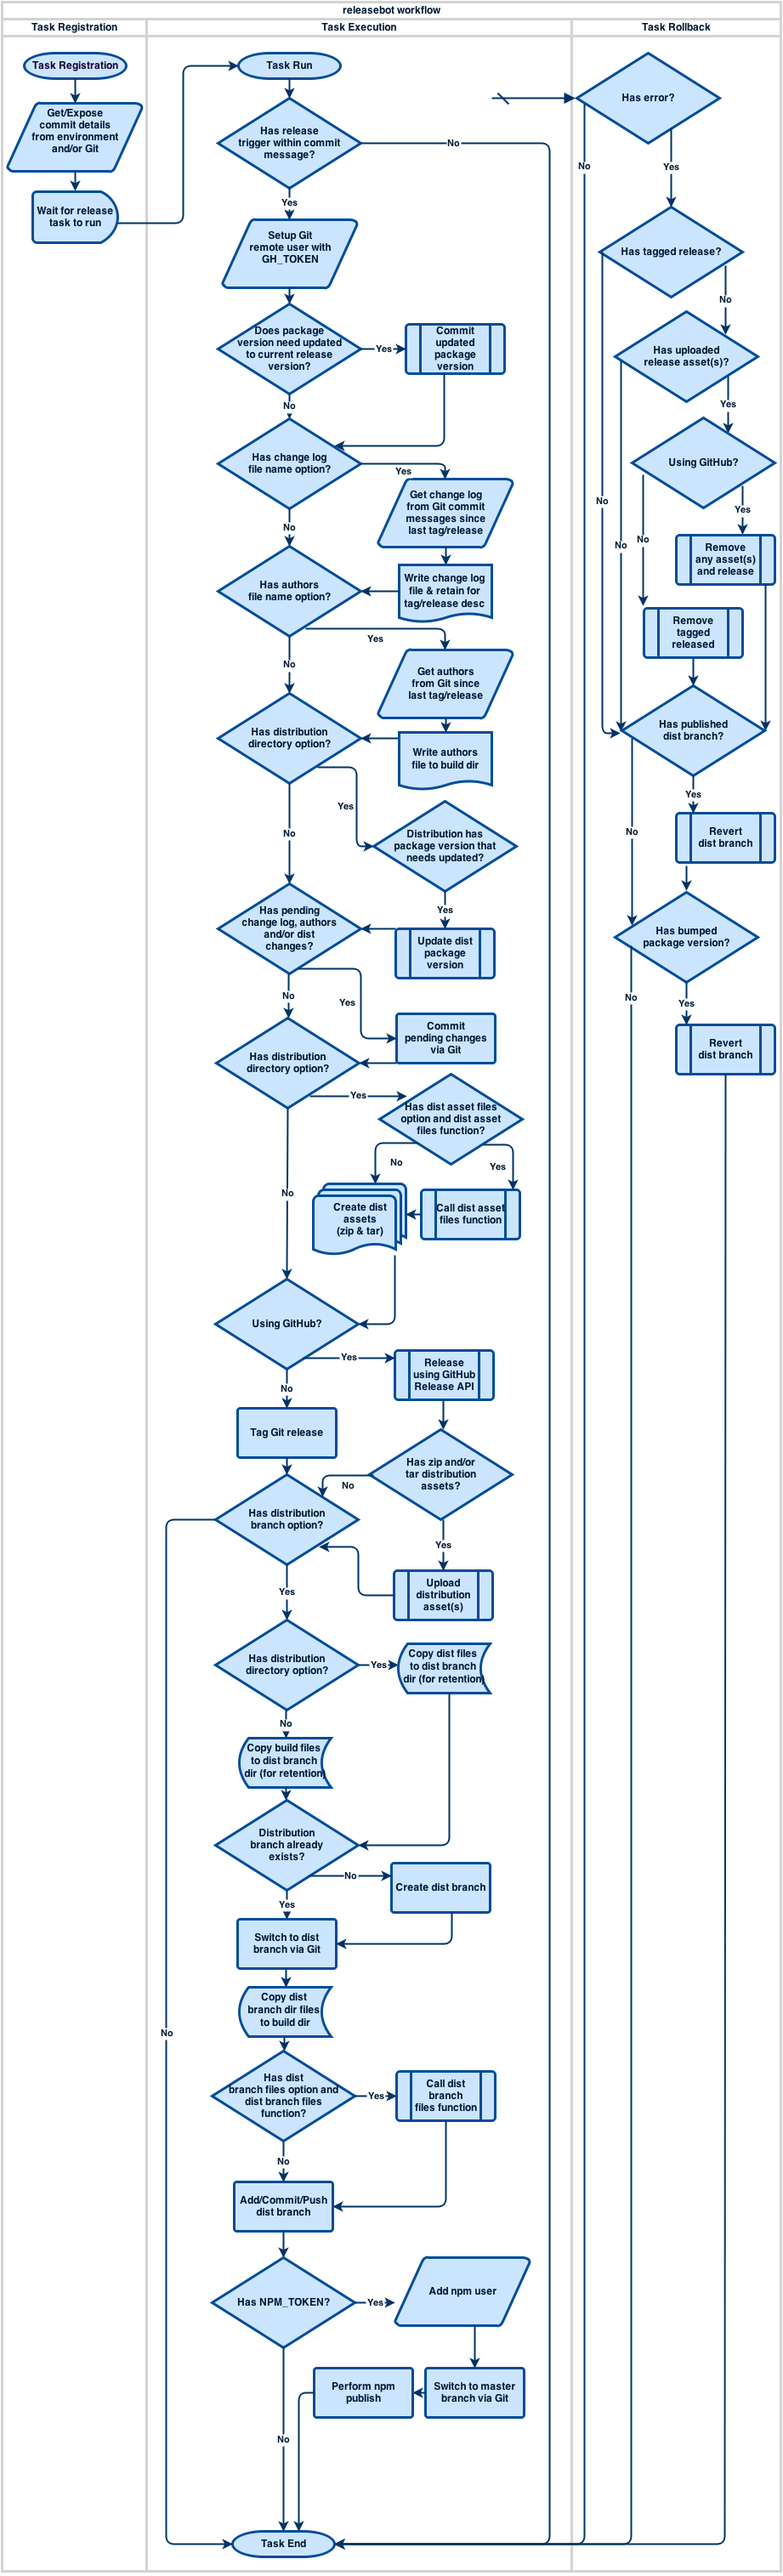
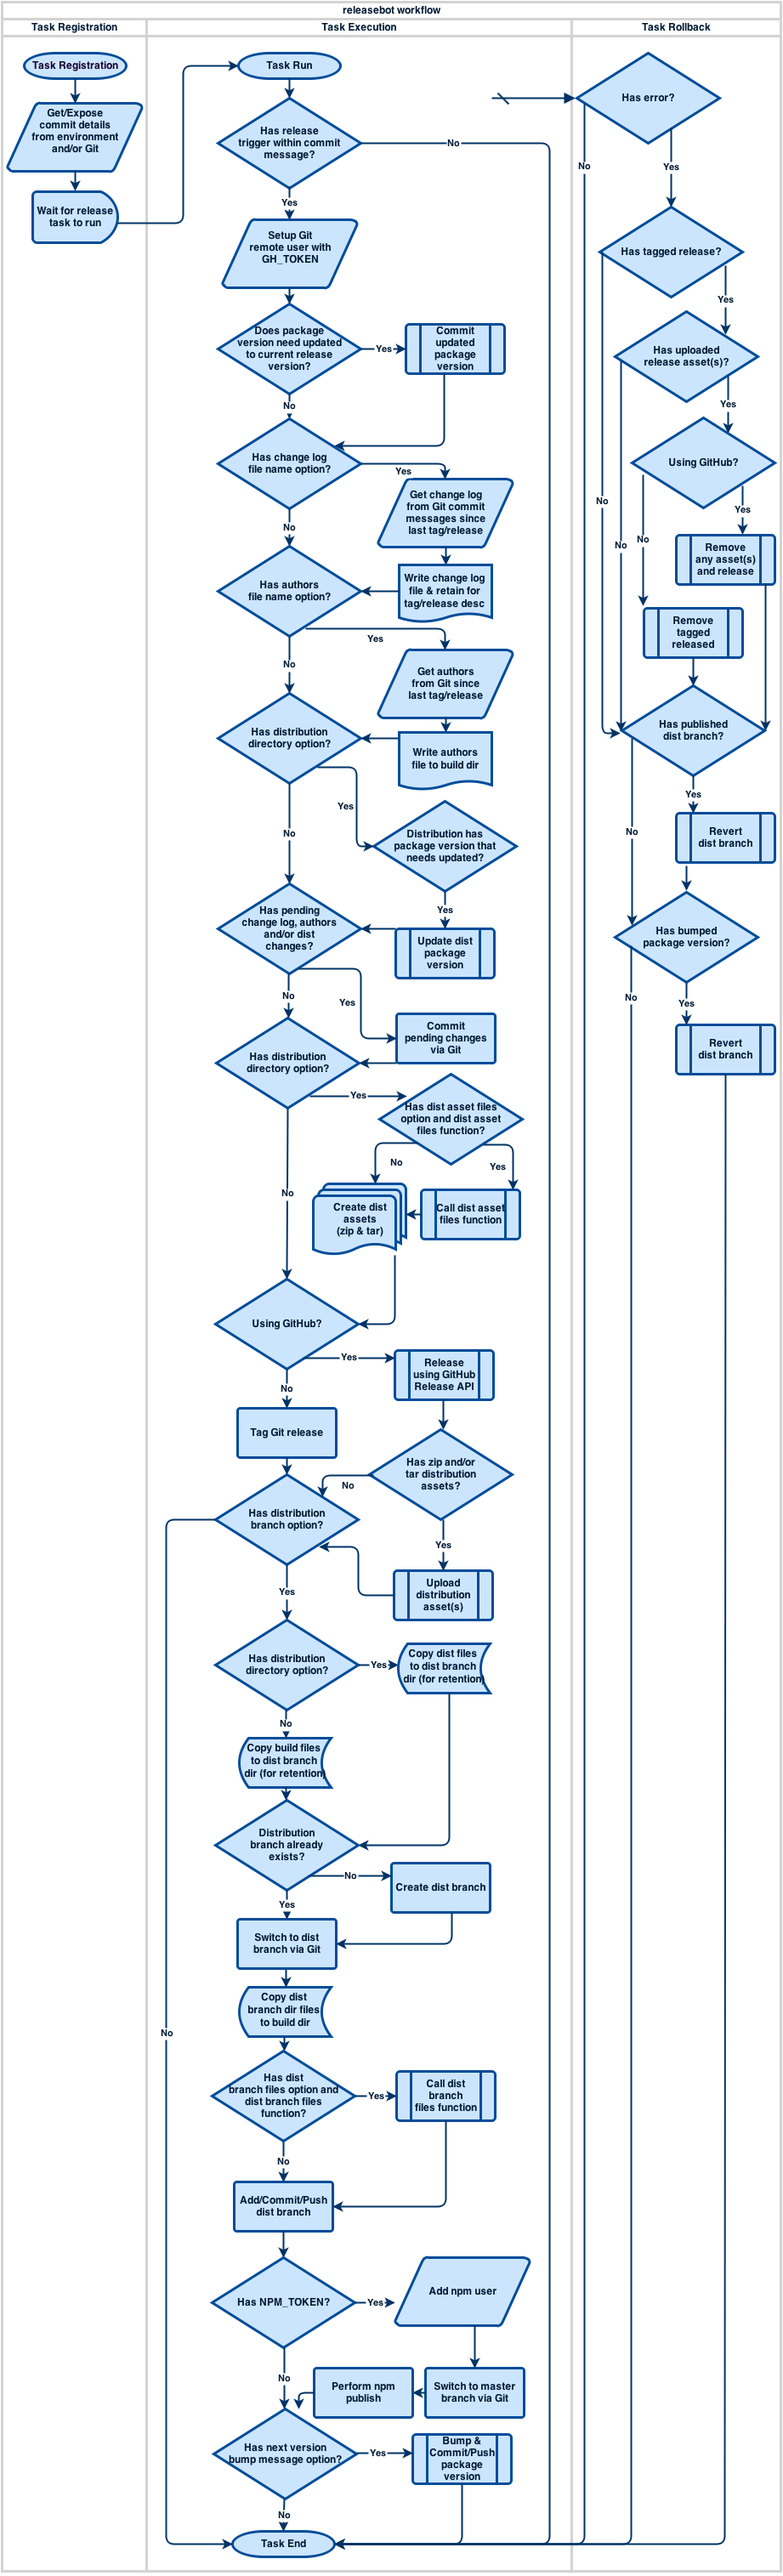
Fixes #5 Release v*.*.+

Changed region(s): [[0.2736, 0.9307, 0.456, 0.9927], [0.5168, 0.9307, 0.6688, 0.9927]]

diff --git a/lib/coopt.js b/lib/coopt.js
@@ -13,6 +13,25 @@ var regexRelease = new RegExp(regexReleasePrefix.source + regexVersion.source,
 var regexSemverInc = /(v)\+(major|premajor|minor|preminor|patch|prepatch|prerelease)/i;
 var regexEscape = /[\-\[\]\/\{\}\(\)\*\+\?\.\\\^\$\|]/g;
 var chgLog = 'CHANGELOG';
+// current commit tasks
+var commitTasks = [];
+// current test values
+var testVals;
+var coopt = exports;
+coopt._getCommitTask = getCommitTask;
+coopt._cloneAndSetCommitTask = cloneAndSetCommitTask;
+coopt._testNamespace = 'test';
+coopt._setTestValue = setTestValue;
+coopt._getTestValue = getTestValue;
+coopt.pluginName = globalOpts.pluginName;
+coopt.pluginDesc = globalOpts.pluginDesc;
+coopt.regexLines = globalOpts.regexLines;
+coopt.regexKey = globalOpts.regexKey;
+coopt.regexDupLines = globalOpts.regexDupLines;
+coopt.getLineReplRegExp = getLineReplRegExp;
+coopt.escapeRegExp = escapeRegExp;
+coopt.getCommit = getCommit;
+coopt.getEnv = getEnv;
 
 // default global options
 var globalOpts = {
@@ -36,27 +55,6 @@ var globalOpts = {
 	regexDupLines : /^(.*)(\r?\n\1)+$/gm,
 	regexKey : /(https?:\/\/|:)+(?=[^:]*$)[a-z0-9]+(@)/gmi,
 };
-
-// current commit tasks
-var commitTasks = [];
-// current test values
-var testVals;
-
-var coopt = exports;
-coopt._getCommitTask = getCommitTask;
-coopt._cloneAndSetCommitTask = cloneAndSetCommitTask;
-coopt._testNamespace = 'test';
-coopt._setTestValue = setTestValue;
-coopt._getTestValue = getTestValue;
-coopt.pluginName = globalOpts.pluginName;
-coopt.pluginDesc = globalOpts.pluginDesc;
-coopt.regexLines = globalOpts.regexLines;
-coopt.regexKey = globalOpts.regexKey;
-coopt.regexDupLines = globalOpts.regexDupLines;
-coopt.getLineReplRegExp = getLineReplRegExp;
-coopt.escapeRegExp = escapeRegExp;
-coopt.getCommit = getCommit;
-coopt.getEnv = getEnv;
 
 /**
  * Generates commit options
@@ -93,6 +91,57 @@ function genCommitOptions(grunt, commitMsg) {
 }
 
 /**
+ * Generates task options
+ * 
+ * @returns {___anonymous3636_5131}
+ */
+function genTaskOptions() {
+	var mp = globalOpts.pluginName + ': ';
+	return {
+		name : '<%= commit.versionTag %>',
+		pkgCurrVerBumpMsg : mp
+				+ 'Updating <%= env.pkgPath %> version to match release version <%= commit.version %> <%= commit.skipTaskGen(options.releaseSkipTasks) %>',
+		pkgNextVerBumpMsg : mp
+				+ 'Bumping <%= env.pkgPath %> version to <%= commit.next.version %> <%= commit.skipTaskGen(options.releaseSkipTasks) %>',
+		distBranchPubMsg : mp
+				+ 'Publishing <%= commit.version %> <%= commit.skipTaskGen(options.releaseSkipTasks) %>',
+		pkgJsonReplacer : null,
+		pkgJsonSpace : 2,
+		gitHostname : github.hostname,
+		repoName : 'origin',
+		repoUser : globalOpts.pluginName,
+		repoEmail : globalOpts.pluginName
+				+ '@'
+				+ (process.env.TRAVIS_BUILD_NUMBER ? 'travis-ci.org'
+						: 'example.org'),
+		chgLog : 'HISTORY.md',
+		authors : 'AUTHORS.md',
+		chgLogLineFormat : '  * %s',
+		chgLogRequired : true,
+		chgLogSkipRegExps : [ mp ],
+		authorsRequired : false,
+		authorsSkipLineRegExp : null,
+		distBranch : 'gh-pages',
+		distDir : 'dist',
+		distBranchCreateRegExp : /Couldn't find remote ref/i,
+		distExcludeDirRegExp : /.?node_modules.?/gmi,
+		distExcludeFileRegExp : /.?\.zip|tar.?/gmi,
+		distAssetCompressRatio : 9,
+		distAssetDir : '..',
+		distAssetUpdateFunction : null,
+		distAssetUpdateFiles : [],
+		distBranchUpdateFunction : null,
+		distBranchUpdateFiles : [],
+		rollbackStrategy : 'queue',
+		rollbackAsyncTimeout : 60000,
+		asyncTimeout : 60000,
+		releaseSkipTasks : [ 'ci' ],
+		npmTag : '',
+		npmRegistryURL : 'https://registry.npmjs.org'
+	};
+}
+
+/**
  * Gets or creates a commit task object that contains a commit object from a
  * predefined set of cooperative options along with the defaultTaskOptions for
  * that Commit (internal use)
@@ -116,49 +165,10 @@ function getCommitTask(grunt, cm, ns, pv) {
 		var copts = genCommitOptions(grunt, hcm ? cm : null);
 		var commit = committer.init(grunt, globalOpts.pluginName,
 				globalOpts.regexLines, copts, ns ? null : undefined, ns, pv);
-		var taskOpts = {
-			name : '<%= commit.versionTag %>',
-			pkgCurrVerBumpMsg : 'Updating <%= env.pkgPath %> version to match release version <%= commit.version %> <%= commit.skipTaskGen(options.releaseSkipTasks) %>',
-			pkgNextVerBumpMsg : 'Bumping <%= env.pkgPath %> version to <%= commit.next.version %> <%= commit.skipTaskGen(options.releaseSkipTasks) %>',
-			distBranchPubMsg : 'Publishing <%= commit.version %> <%= commit.skipTaskGen(options.releaseSkipTasks) %>',
-			pkgJsonReplacer : null,
-			pkgJsonSpace : 2,
-			gitHostname : github.hostname,
-			repoName : 'origin',
-			repoUser : globalOpts.pluginName,
-			repoEmail : globalOpts.pluginName
-					+ '@'
-					+ (process.env.TRAVIS_BUILD_NUMBER ? 'travis-ci.org'
-							: 'example.org'),
-			chgLog : 'HISTORY.md',
-			authors : 'AUTHORS.md',
-			chgLogLineFormat : '  * %s',
-			chgLogRequired : true,
-			chgLogSkipRegExps : [],
-			authorsRequired : false,
-			authorsSkipLineRegExp : null,
-			distBranch : 'gh-pages',
-			distDir : 'dist',
-			distBranchCreateRegExp : /Couldn't find remote ref/i,
-			distExcludeDirRegExp : /.?node_modules.?/gmi,
-			distExcludeFileRegExp : /.?\.zip|tar.?/gmi,
-			distAssetCompressRatio : 9,
-			distAssetDir : '..',
-			distAssetUpdateFunction : null,
-			distAssetUpdateFiles : [],
-			distBranchUpdateFunction : null,
-			distBranchUpdateFiles : [],
-			rollbackStrategy : 'queue',
-			rollbackAsyncTimeout : 60000,
-			asyncTimeout : 60000,
-			releaseSkipTasks : [ 'ci' ],
-			npmTag : '',
-			npmRegistryURL : 'https://registry.npmjs.org'
-		};
 		commitTasks[ns] = {
 			commit : commit,
 			commitOpts : copts,
-			defaultTaskOptions : taskOpts,
+			defaultTaskOptions : genTaskOptions(),
 			namespace : ns
 		};
 	}
@@ -228,8 +238,9 @@ function getTestValue(key) {
  * Creates a regular expression for replacing line items
  * 
  * @param rxa
- *            the optional {Array} of {RegExp} or strings that will be included
- *            in the final expression (concatenated via OR in final expression)
+ *            the optional {Array} of {RegExp} or strings (strings will be
+ *            escaped) that will be included in the final expression
+ *            (concatenated via OR in final expression)
  * @param tasks
  *            an optional {Array} of task names to replace using the generated
  *            sequence syntax (concatenated via OR in final expression)
@@ -238,7 +249,7 @@ function getTestValue(key) {
 function getLineReplRegExp(rxa, tasks) {
 	var r = '', sf = null;
 	function rxItem(o, i, a) {
-		var s = util.isRegExp(o) ? o.source : o;
+		var s = util.isRegExp(o) ? o.source : escapeRegExp(o);
 		if (s) {
 			r += (sf ? sf(true, s) : '(?:' + s + ')')
 					+ (i < (a.length - 1) ? '|' : '');
@@ -253,7 +264,6 @@ function getLineReplRegExp(rxa, tasks) {
 	if (tsks.indexOf(chgLog) < 0) {
 		tsks.push(chgLog);
 	}
-	console.log(tsks);
 	sf = committer.skipTaskGen;
 	tsks.forEach(rxItem);
 	return new RegExp('^.*(' + r + ').*$\n?\r?', 'gmi');

diff --git a/tasks/releasebot.js b/tasks/releasebot.js
@@ -112,9 +112,7 @@ module.exports = function(grunt) {
 		 * Generates an object that contains each of the passed arguments as a
 		 * property with a value of an option with the same name. Each property
 		 * will have a value for that option that is parsed using the grunt
-		 * template processor. When the processed value exists it will also be
-		 * escaped for regular expression use and added to the escCmtMsgs
-		 * {Array} property
+		 * template processor.
 		 * 
 		 * @returns all of the grunt template parsed data
 		 */
@@ -127,18 +125,13 @@ module.exports = function(grunt) {
 					options : options
 				}
 			};
-			var rtn = {
-				escCmtMsgs : []
-			};
+			var rtn = {};
 			var arr = Array.prototype.slice.call(arguments, 0);
 			arr.forEach(function genIntMsgs(s) {
 				rtn[s] = options[s] ? grunt.template.process(options[s],
 						templateData) : '';
 				if (rtn[s]) {
 					grunt.verbose.writeln(s + ' = ' + rtn[s]);
-					if (s.toLowerCase() !== 'name') {
-						rtn.escCmtMsgs.push(coopt.escapeRegExp(rtn[s]));
-					}
 				}
 			});
 			return rtn;
@@ -616,10 +609,7 @@ module.exports = function(grunt) {
 				}
 				if (output) {
 					// skip content that matches any of the supplied expressions
-					// and the release commit messages performed internally
-					var rxs = Array.isArray(skipRegExps) ? tmpltData.escCmtMsgs
-							.concat(skipRegExps) : tmpltData.escCmtMsgs;
-					var rxl = coopt.getLineReplRegExp(rxs);
+					var rxl = coopt.getLineReplRegExp(skipRegExps);
 					grunt.verbose.writeln('Replacing output using: ' + rxl);
 					output = output.replace(rxl, '');
 					// replace duplicate lines

diff --git a/lib/committer.js b/lib/committer.js
@@ -485,13 +485,13 @@ function Commit(relLbl, relType, relRx, bumpRx, cmo, pver, nver,
 		var pth = altPath || self.pkgPath;
 		if (pth) {
 			pkg = grunt.file.readJSON(pth);
-			u = pkg && !revert && !next && pkg.version !== self.version
+			oldVer = pkg.version;
+			u = pkg && !revert && !next && oldVer !== self.version
 					&& self.version;
-			n = pkg && !revert && next && pkg.version !== self.next.version
+			n = pkg && !revert && next && oldVer !== self.next.version
 					&& self.next.version;
 			r = pkg && revert && self.prev.version;
 			if (u || n || r) {
-				oldVer = pkg.version;
 				pkg.version = r ? self.prev.version : n ? self.next.version
 						: self.version;
 				pkgStr = JSON.stringify(pkg, replacer, space);

diff --git a/README.md b/README.md
@@ -1,16 +1,16 @@
 # <a href="http://ugate.github.io/releasebot"><img src="http://ugate.github.io/releasebot/img/logo.svg"/></a>
 [![NPM version](https://badge.fury.io/js/releasebot.png)](http://badge.fury.io/js/releasebot) [![NPM downloads](http://img.shields.io/npm/dm/releasebot.svg)](https://www.npmjs.org/package/releasebot) [![Build Status](https://travis-ci.org/ugate/releasebot.png?branch=master)](https://travis-ci.org/ugate/releasebot) [![Dependency Status](https://david-dm.org/ugate/releasebot.png)](https://david-dm.org/ugate/releasebot) [![devDependency Status](https://david-dm.org/ugate/releasebot/dev-status.png)](https://david-dm.org/ugate/releasebot#info=devDependencies)
 
-**releasebot** is a [Grunt](http://gruntjs.com/) task for triggering an automated release process when a commit message matches a predefined regular expression. The commit message that triggers the automated release process can also be <a href="#default-global-plug-in-environment-options">specified rather than extracted from a commit message</a>. The task performs the following actions:
-
-<a href="http://ugate.github.io/releasebot/img/workflow.png">
-Click to view a detailed workflow
-<img src="http://ugate.github.io/releasebot/img/workflow.png" height="800px"/>
-</a>
+**releasebot** is a [Grunt](http://gruntjs.com/) task for triggering an automated release process when a commit message matches a predefined regular expression. The commit message that triggers the automated release process can also be <a href="#default-global-plug-in-environment-options">specified rather than extracted from a commit message</a>.
 
 #### See [this link](//github.com/ugate/releasebot/releases) for example GitHub releasebot generated releases!
 
 <img src="http://ugate.github.io/releasebot/img/github.png"/>
+
+<a href="http://ugate.github.io/releasebot/img/workflow.png">
+Click to view a detailed workflow of what actions are performed by releasebot
+<img src="http://ugate.github.io/releasebot/img/workflow.png" height="800px"/>
+</a>
 
 ## Usage Examples
 
@@ -312,11 +312,11 @@ Once the releasebot task has been registered commit datails are captured and mad
   // The name that will appear on GitHub (grunt template parsed using any "commit", task "options", "env" or "process" properties)
   name : '<%= commit.versionTag %>',
   // Commit message used when the package version does not match the version being released and needs to be updated
-  pkgCurrVerBumpMsg : 'Updating <%= env.pkgPath %> version to match release version <%= commit.version %> <%= commit.skipTaskGen(options.releaseSkipTasks) %>',
+  pkgCurrVerBumpMsg : 'releasebot: Updating <%= env.pkgPath %> version to match release version <%= commit.version %> <%= commit.skipTaskGen(options.releaseSkipTasks) %>',
   // Commit message used for incrementing to the next release version once the current release completes (null to disable feature)
-  pkgNextVerBumpMsg : 'Bumping <%= env.pkgPath %> version to <%= commit.next.version %> <%= commit.skipTaskGen(options.releaseSkipTasks) %>',
+  pkgNextVerBumpMsg : 'releasebot: Bumping <%= env.pkgPath %> version to <%= commit.next.version %> <%= commit.skipTaskGen(options.releaseSkipTasks) %>',
   // Commit message used when publishing to the distribution branch
-  distBranchPubMsg : 'Publishing <%= commit.version %> <%= commit.skipTaskGen(options.releaseSkipTasks) %>',
+  distBranchPubMsg : 'releasebot: Publishing <%= commit.version %> <%= commit.skipTaskGen(options.releaseSkipTasks) %>',
   // The package replacer option sent into JSON.stringify during package version updates
   pkgJsonReplacer : null,
   // The package space option sent into JSON.stringify during package version updates
@@ -337,9 +337,14 @@ Once the releasebot task has been registered commit datails are captured and mad
   chgLogLineFormat : '  * %s',
   // Flag to indicate that the release will fail when the change log cannot be validated
   chgLogRequired : true,
-  // Array of regular expressions that will be used to against each line of the change log that when matched will be removed (each item in array will be concatenated via OR in final expression)
-  // the changelog entry will always be present, even if it's not passed- removes lines with [skip changelog]
-  chgLogSkipRegExps : [],
+  // Array of regular expressions that will be used to against each line of the change log that when matched will be removed
+  // - array elements can be a regular expression or a string (strings will be escaped before the final expression is applied)
+  // - array elements will be concatenated via OR in the final expression that is applied
+  // - any flags used within a passed regular expression will not be applied
+  // - matches for each array element will be case-insensitive
+  // - the changelog entry will always be present, even if it's not passed- removes lines with [skip changelog]
+  // - if you don't want commit messages that are releasebot generated to show up in your change log make sure to include a unique key in the appropriate message options as well as one of the array elements (default will exclude)
+  chgLogSkipRegExps : [ 'releasebot: ' ],
   // Flag to indicate that the release will fail when the authors log cannot be validated
   authorsRequired : false,
   // Regular expression that will be used to skip individual lines from being used within the authors log
